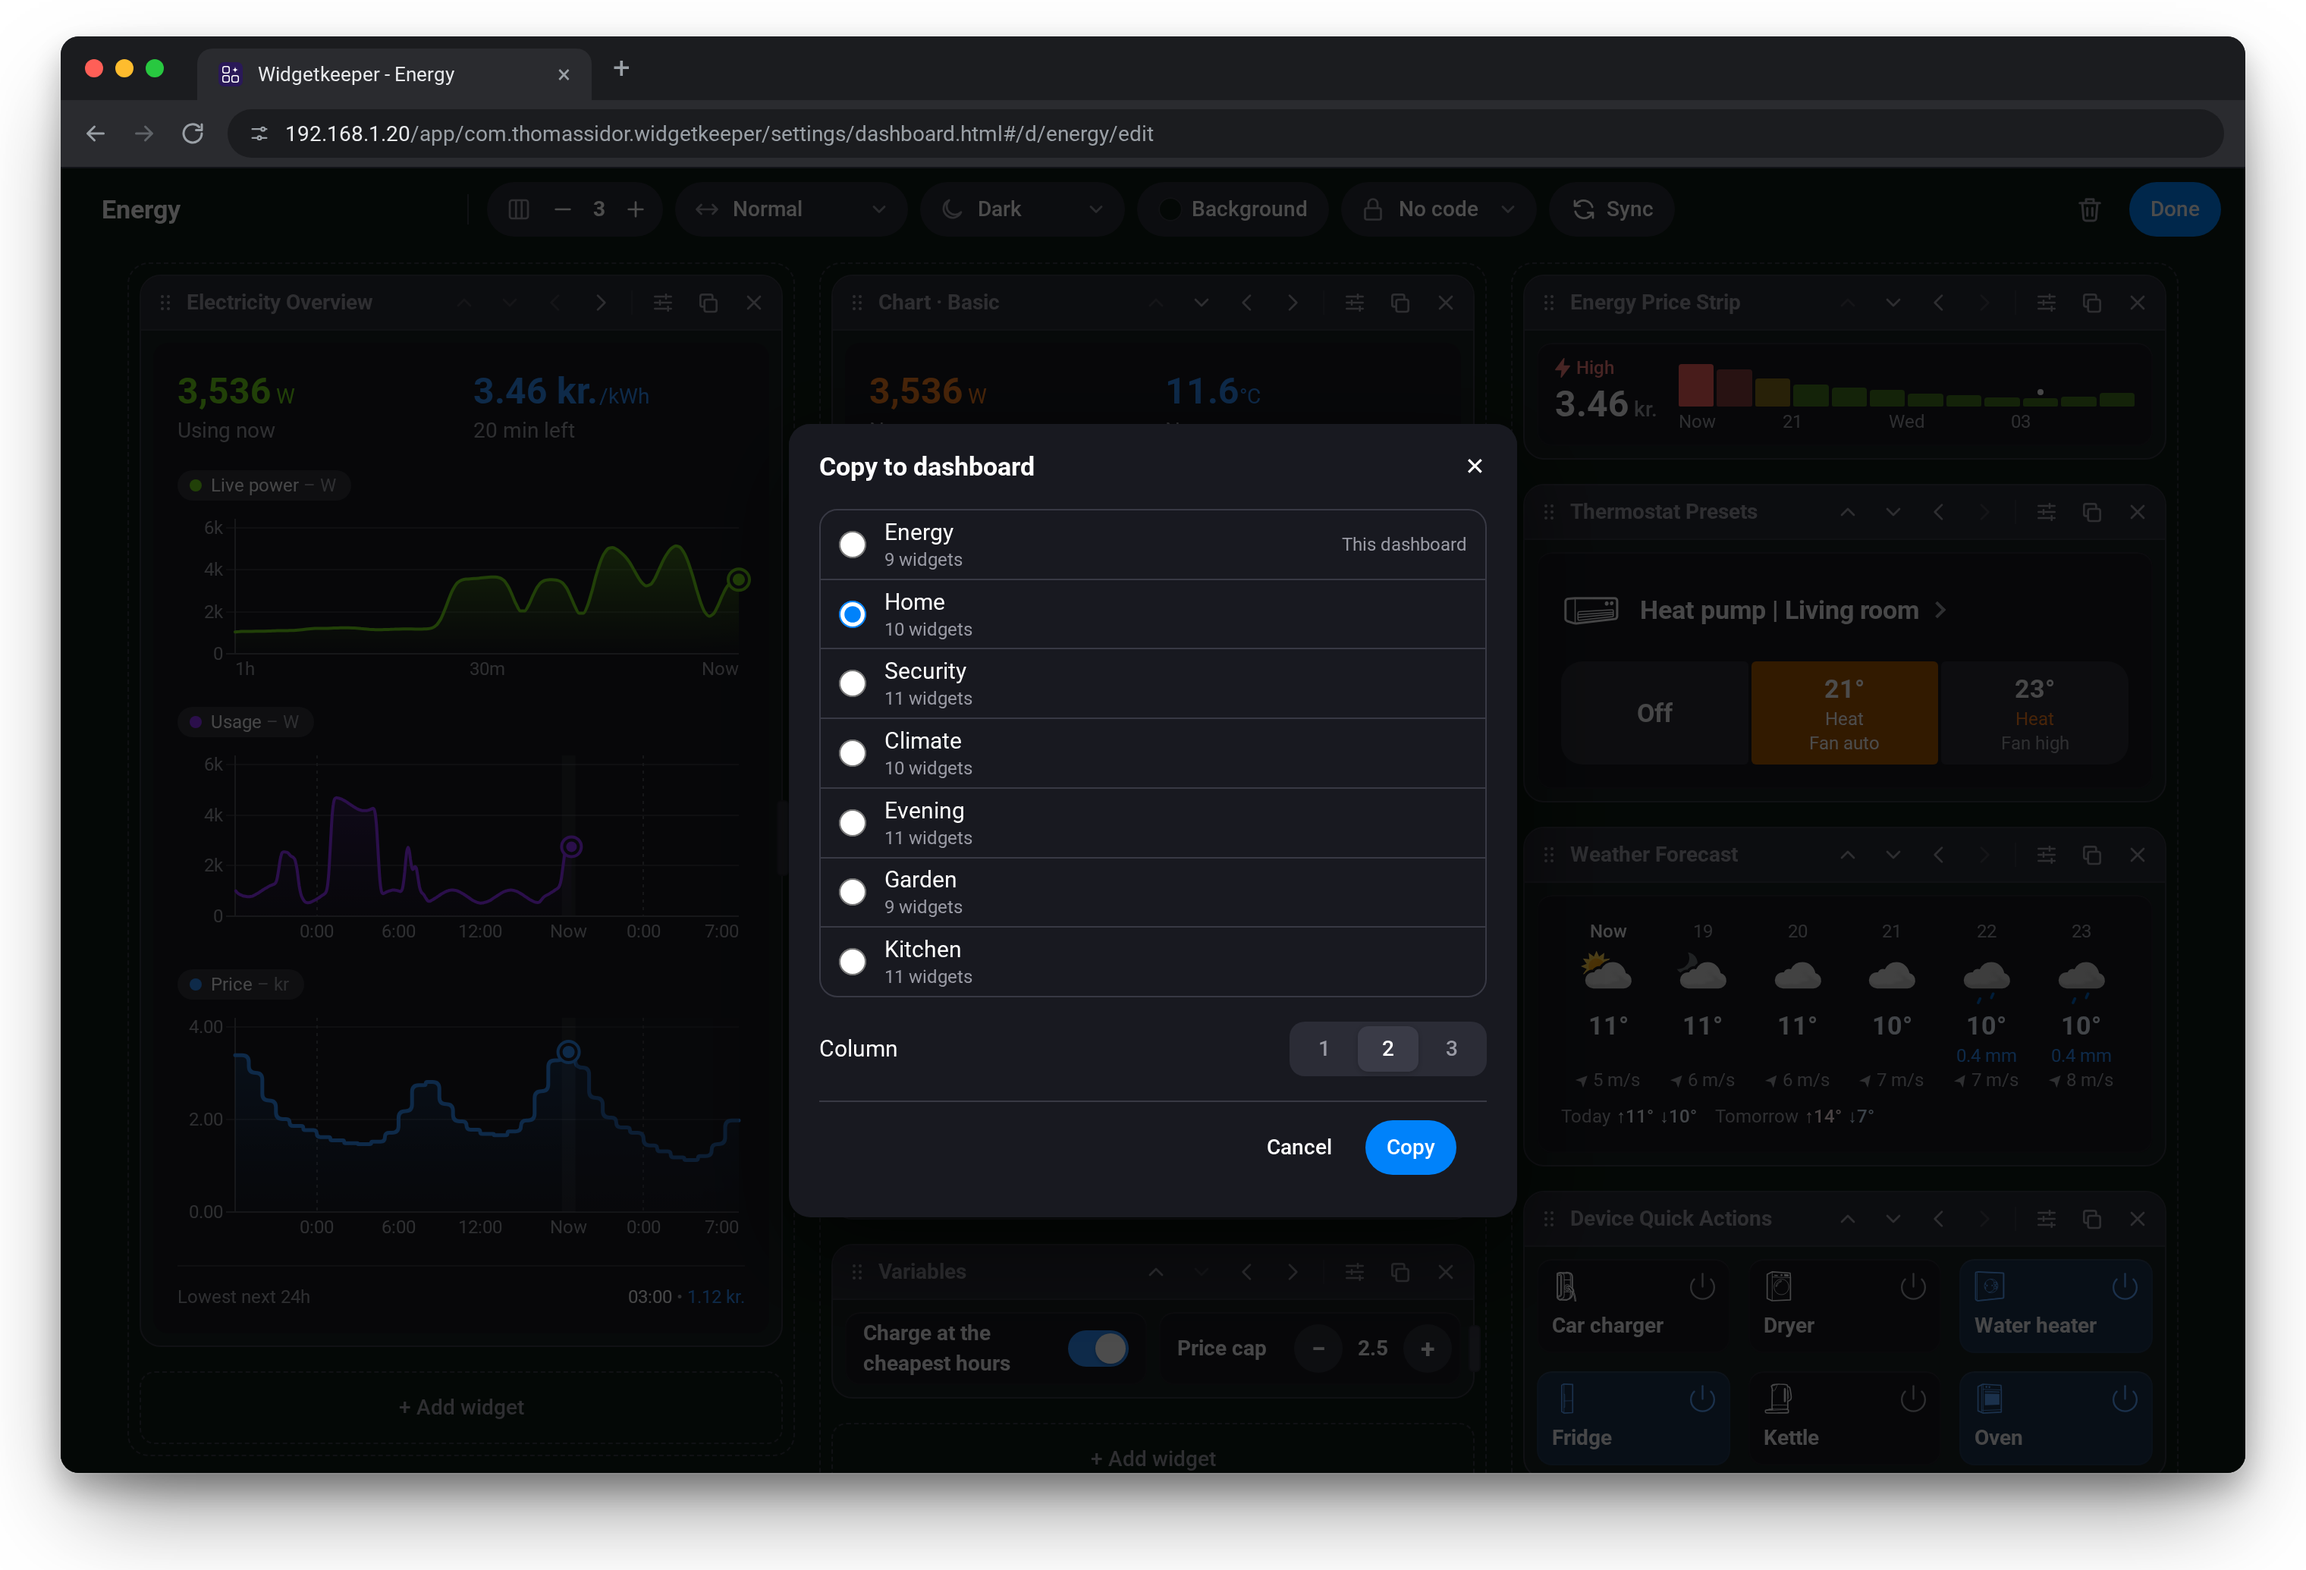
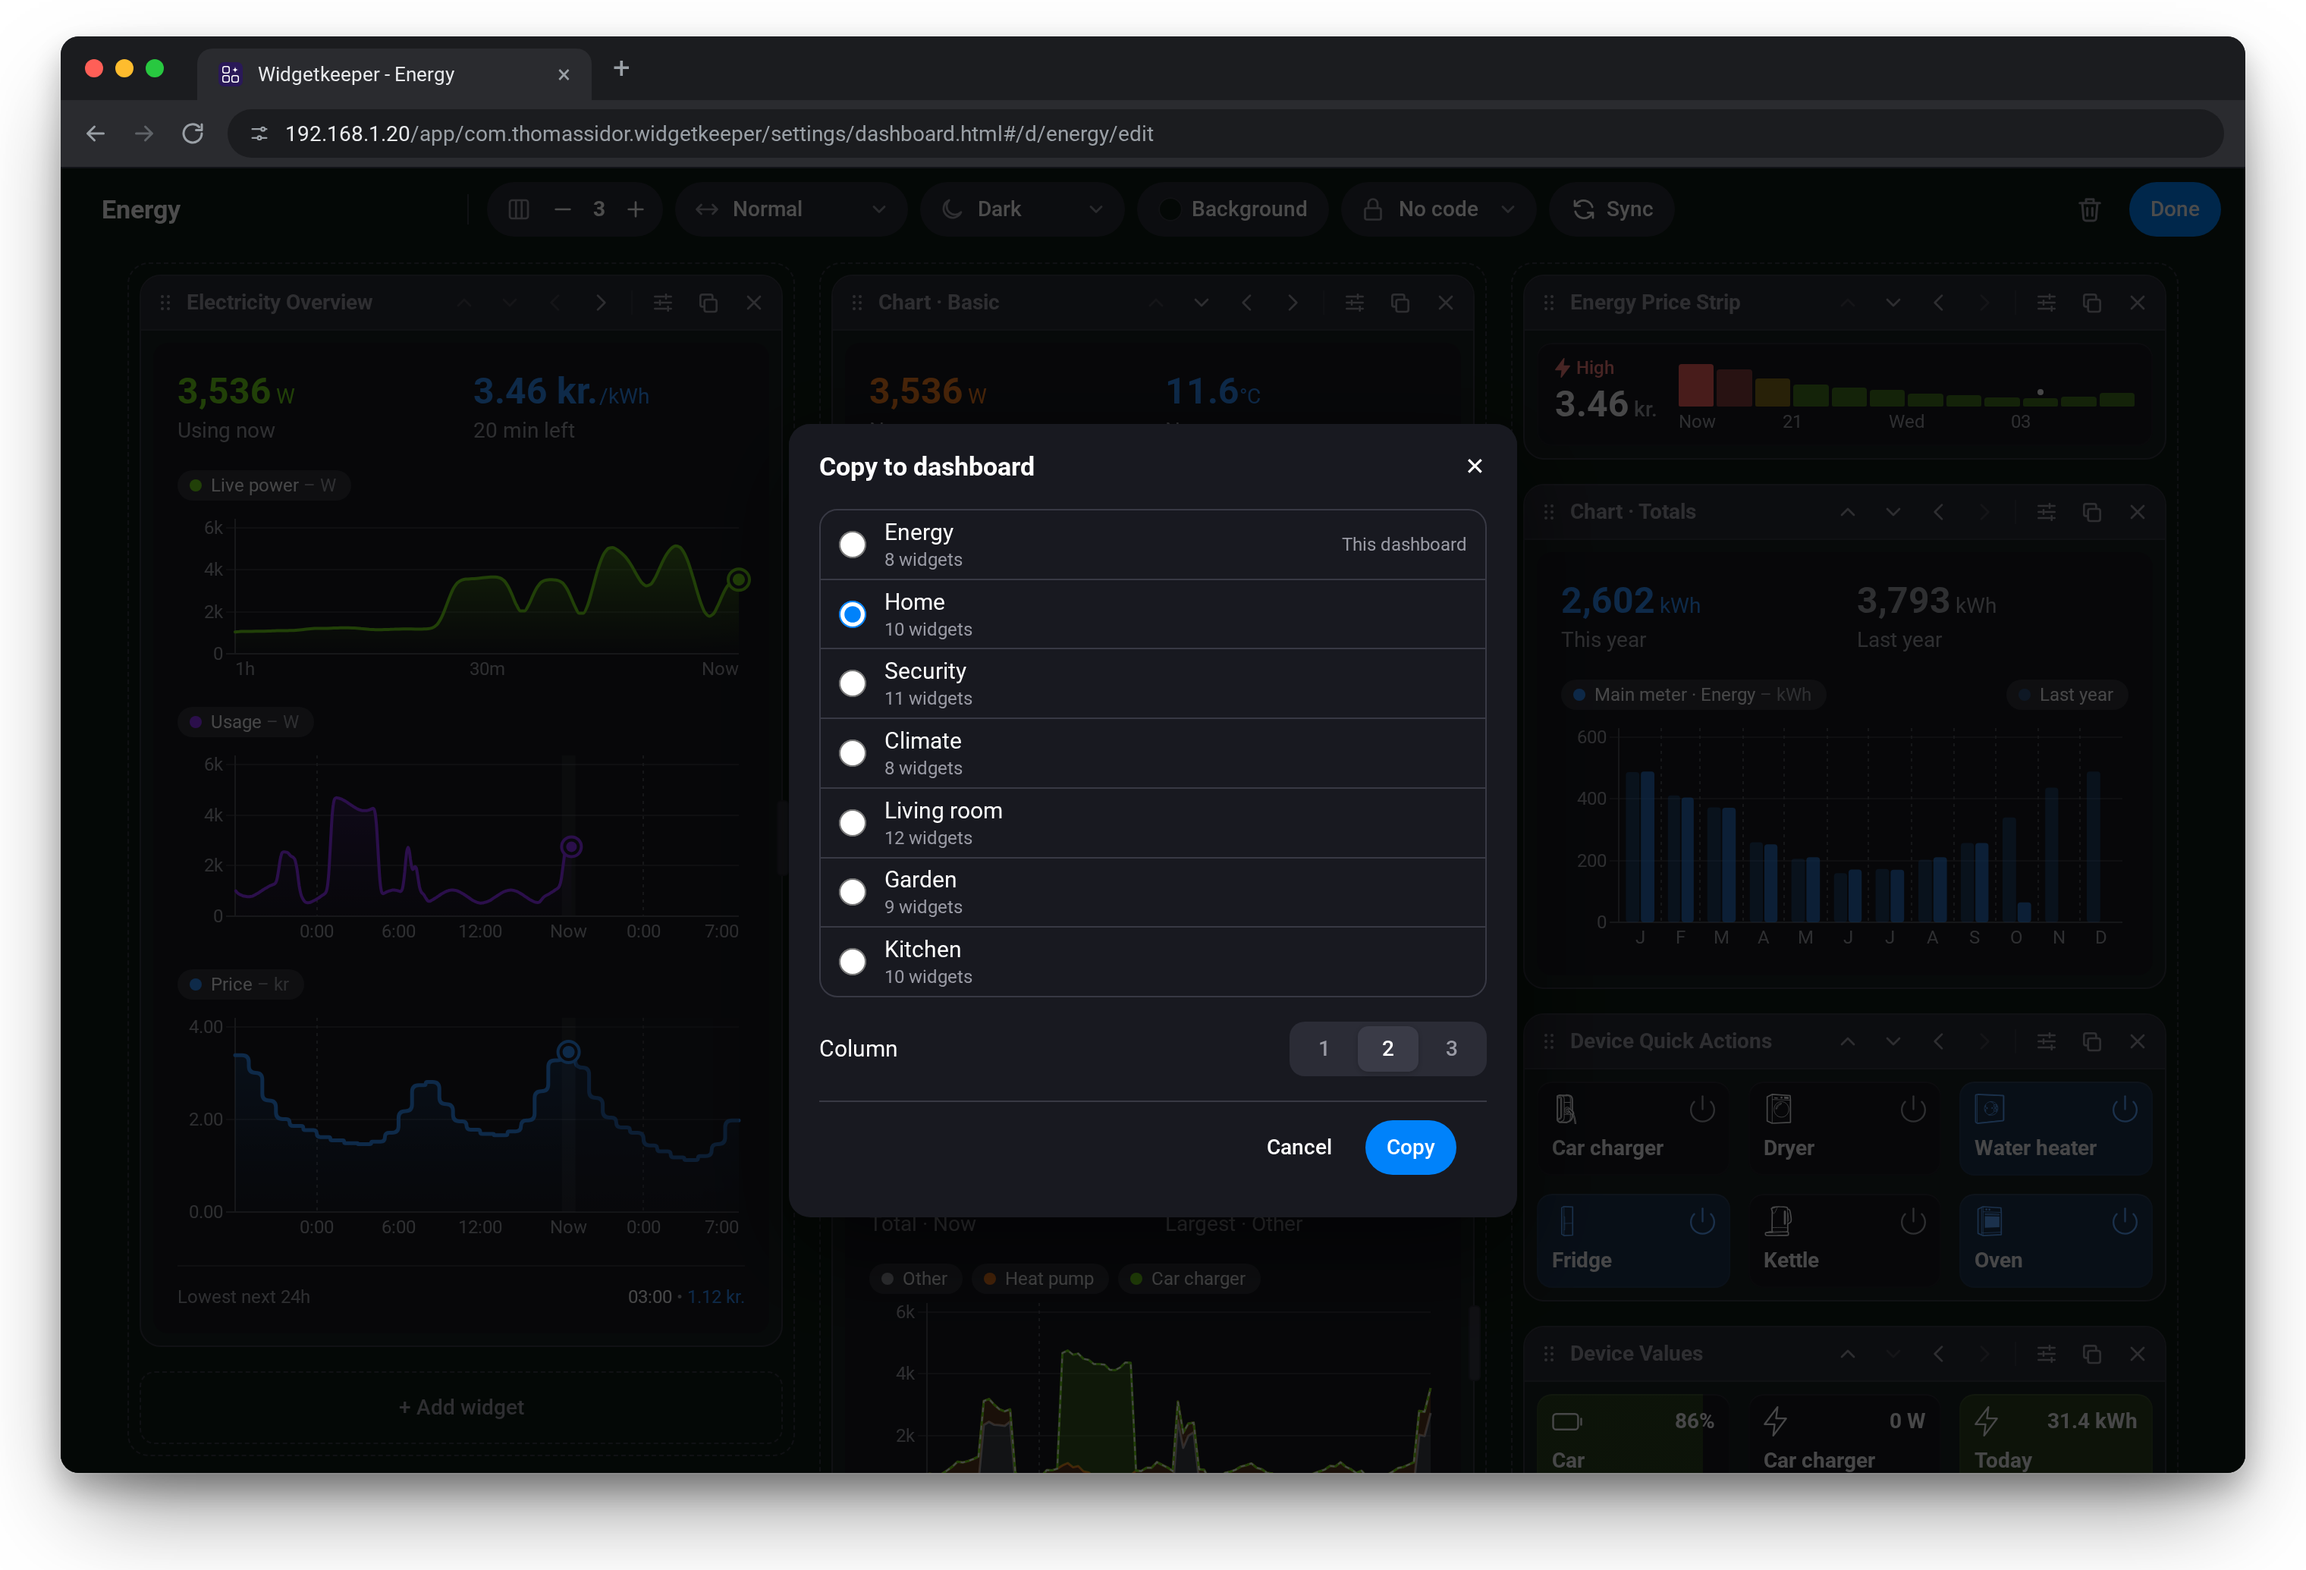
1.2.0: shorter store text and README sections, the graphic says it's in testing
- .homeychangelog.json: 1.2.0's text much shorter, in all 13 languages.
- README: shorter Colour style, Device names and Tile names; their anchors stay.
- The 1.2.0 graphic is headed New in 1.2.0, In testing, and its Copy a widget
  dialog shows the Living room dashboard.

diff --git a/dev/whats-next-1.2.0.html b/dev/whats-next-1.2.0.html
@@ -3,7 +3,7 @@
 <head>
   <meta charset="utf-8">
   <meta name="viewport" content="width=device-width, initial-scale=1">
-  <title>What's next in 1.2.0</title>
+  <title>New in 1.2.0</title>
   <!--
     A teaser of 1.2.0 (CHANGELOG.md), in the look of the 1.0.0 and 1.1.0 posters (whats-new.html, whats-next-1.1.0.html):
     the nine new chart widgets (Totals, Scatter (XY), Daily Profile, Min/Max, Lines, Stacked, Timeline, Ranking, Gauge) as the
@@ -185,8 +185,8 @@
   <header>
     <div class="logo"><svg viewBox="0 0 64 64"><g fill="none" stroke="#FFFFFF" stroke-width="3"><rect x="11.5" y="11.5" width="17" height="17" rx="5"/><rect x="11.5" y="35.5" width="17" height="17" rx="5"/><rect x="35.5" y="35.5" width="17" height="17" rx="5"/></g><path d="M44 11Q44 20 53 20Q44 20 44 29Q44 20 35 20Q44 20 44 11Z" fill="#FFFFFF"/></svg></div>
     <div>
-      <div class="eyebrow">Widgetkeeper 1.2.0 <span>Coming soon</span></div>
-      <h1>What's next in 1.2.0</h1>
+      <div class="eyebrow">Widgetkeeper 1.2.0 <span>In testing</span></div>
+      <h1>New in 1.2.0</h1>
       <p>Nine new charts, any time span, sign-in codes, a live preview, sync with Homey dashboards, shorter device names and more colours.</p>
     </div>
     <div class="chips">

diff --git a/.claude/rules/renders.md b/.claude/rules/renders.md
@@ -23,4 +23,4 @@ paths:
 - `npm run forum-images`: `docs/forum/<showcase|web>-<id>.jpg` for the Homey Community post: the transparent showcase and web PNGs on the App Store images' brand background (`background()` from `scripts/app-images.mjs`), 1380 px wide (2x the post's 690), JPEG 88. Discourse turns a large transparent PNG into a JPEG on white, which showed the first post's tablet in a white box (2026-10-19). Run it after `showcase` and `web-showcase`.
 - `npm run whats-new`: the 1.0.0 poster `docs/whats-new-1.0.0.png` from `dev/whats-new.html` (needs `docs/web/settings.png`). Opaque, so it goes in the forum as it is. Its Light Controls take the showcase's devices by the `dusk` palette alone: since the Evening's widget became Lights by Room (1.1.0) a `type === 'lights'` match found none, and the page threw before reporting its size (`No size for the poster`, found 2026-11-03).
 - `npm run whats-next [-- 1.1.0]`: a release's teaser `docs/whats-next-<version>.png` from `dev/whats-next-<version>.html` (`TEASERS` in the script: each version and the web showcase view it needs; default the latest). 1.1.0's, in the 1.0.0 poster's look: A row of the new widgets (Pollen and UV, Lights by Room with the dev page's drawn zone icons, Web Page, Keypad as in the README screenshot), the Popups panel (the real prompt page in a drawn phone, the hallway camera's made-up picture `dev/cameras/door.webp`, a question and a message, its Flow cards drawn), a row of improvements (Quick Actions' *Activate with* with the front door asking *Tap again*, clicked 2 s in as it asks for 3 s, credited to @stefan-schweiger; Thermostat Presets with its three Flow cards drawn; Charts on Today, the showcase's day; an And also list), and the web dashboards panel (`docs/web/wide.png`, `npm run web-showcase -- wide`: Energy with its chart across two columns). The page fetches the picture, so the script serves the repo root (`withServer()`). Opaque, like the 1.0.0 one.
-- 1.2.0's teaser (`npm run whats-next`, needs `docs/web/preview.png`), in the same look: a row of four new charts (Totals, Scatter (XY), Daily Profile, Min/Max), a row of four more (Lines, Stacked, Timeline, Ranking; updated 2026-10-31, after the last three and the sign-in codes came), then a row with Chart · Basic's free spans (a few as chips; two stacked charts of 6 months and 40 minutes, their readings made up in the page, their values now the showcase's 11.6 °C and 3,536 W), Device names (the settings page's card drawn, Energy's Quick Actions with a room after a `|` in full and before it), Sign-in codes (the settings page's Screens and browsers drawn with a made-up code `KX7P-M4TQ` and the preview's made-up home address with it as a real QR code from `settings/qrcode.js`, the kitchen tablet's *Opens on*, and the page's code field) and Chart · Gauge (the README screenshots' office CO₂, bar and dial), then a full-width strip of the six new colours (kit.css's bright over shade swatches) beside the And also list in two columns, then the web dashboards panel with the live preview. Gauge, Totals' cost, Opens on, the room mode, Sparklines' spans and the colours came the same evening (2026-10-31); the strip keeps the fourth column as short as the others. On 2026-11-03 the rest of 1.2.0 came in: Sync with Homey in the header, apps' numbers, Cameras, the tiles per row and the Timeline notice in And also, and, at the user's ask that each big web dashboards change gets its own showcase, the live preview's panel is followed by a row (`.pair`) of Sync with Homey dashboards, its two dialogs in one box (the user's ask: they're about the same thing; the editor's `sync-dialog.png` and the front page Settings' `nightly-dialog.png`, captioned, bottoms lined up) and, narrower, Copy a widget (`copy-dialog.png`); kiosk mode is an And also item (the user's call). `npm run web-showcase -- preview sync nightly copy` before the teaser. Each new chart is its README screenshot's mount (`mock-*.js`, the `h2` with a quieter `Chart ·`). No file is fetched, but the script serves the repo root for both. Byte-identical between runs.
+- 1.2.0's teaser (`npm run whats-next`, needs `docs/web/preview.png`; headed *New in 1.2.0*, *In testing* since the test release, 2026-11-06), in the same look: a row of four new charts (Totals, Scatter (XY), Daily Profile, Min/Max), a row of four more (Lines, Stacked, Timeline, Ranking; updated 2026-10-31, after the last three and the sign-in codes came), then a row with Chart · Basic's free spans (a few as chips; two stacked charts of 6 months and 40 minutes, their readings made up in the page, their values now the showcase's 11.6 °C and 3,536 W), Device names (the settings page's card drawn, Energy's Quick Actions with a room after a `|` in full and before it), Sign-in codes (the settings page's Screens and browsers drawn with a made-up code `KX7P-M4TQ` and the preview's made-up home address with it as a real QR code from `settings/qrcode.js`, the kitchen tablet's *Opens on*, and the page's code field) and Chart · Gauge (the README screenshots' office CO₂, bar and dial), then a full-width strip of the six new colours (kit.css's bright over shade swatches) beside the And also list in two columns, then the web dashboards panel with the live preview. Gauge, Totals' cost, Opens on, the room mode, Sparklines' spans and the colours came the same evening (2026-10-31); the strip keeps the fourth column as short as the others. On 2026-11-03 the rest of 1.2.0 came in: Sync with Homey in the header, apps' numbers, Cameras, the tiles per row and the Timeline notice in And also, and, at the user's ask that each big web dashboards change gets its own showcase, the live preview's panel is followed by a row (`.pair`) of Sync with Homey dashboards, its two dialogs in one box (the user's ask: they're about the same thing; the editor's `sync-dialog.png` and the front page Settings' `nightly-dialog.png`, captioned, bottoms lined up) and, narrower, Copy a widget (`copy-dialog.png`); kiosk mode is an And also item (the user's call). `npm run web-showcase -- preview sync nightly copy` before the teaser. Each new chart is its README screenshot's mount (`mock-*.js`, the `h2` with a quieter `Chart ·`). No file is fetched, but the script serves the repo root for both. Byte-identical between runs.

diff --git a/README.md b/README.md
@@ -309,33 +309,23 @@ Turning web dashboards off keeps them on your Homey.
 <img src="docs/showcase/kitchen.png" alt="A kitchen dashboard with Widgetkeeper widgets on a tablet" width="100%">
 
 ## Colour style
-Every widget with a coloured state has a **Colour style** setting: *Muted* is the calmer look, *Vivid* the stronger one, and a colour you pick in the widget follows it.
-
-- Where a colour tints a tile (a Quick Actions tile that's on, a Sensor Alarms alarm, a coloured note, Value Matrix's cells …), Vivid fills the tile with Homey's darker shade, with white text. The charts get a stronger area under their lines.
-- Where the colour is already a small solid part (a lit preset button, Insights Heatmap's cells, Media's play button, Activity Dots' dots), Muted uses the darker shade and Vivid the bright colour.
-- Days Since and Room Health are toned down in Muted and in full colour in Vivid. Weather Forecast's *Vivid* puts the card on a gradient for the current weather.
+Every widget with a coloured state has a **Colour style** setting: *Muted* is the calmer look, *Vivid* the stronger one, and a colour you pick in the widget follows it. Weather Forecast has a *Vivid* of its own, which puts the card on a gradient for the current weather.
 
 ## Device names
-If your device names say more than the device, such as *Ceiling lamp | Kitchen*, choose under **Apps → Widgetkeeper → Configure → Device names** which part every widget shows:
+If your device names say more than the device, such as *Ceiling lamp | Kitchen*, choose under **Apps → Widgetkeeper → Configure → Device names** which part every widget shows: the full name (the default), the part before or after a separator you type, the last word, or the name without its room (*Kitchen ceiling lamp* in the Kitchen shows as *Ceiling lamp*).
 
-- *Full name*: as in Homey (the default).
-- *Before the separator*: *Ceiling lamp | Kitchen* shows as *Ceiling lamp*. You type the separator, such as `|` or ` - ` (spaces count, so ` - ` leaves *Wi-Fi plug* whole). With the separator more than once, the part before the first one.
-- *After the separator*: *Kitchen | Ceiling lamp* shows as *Ceiling lamp*, the part after the last one.
-- *Last word*: *Kitchen ceiling lamp* shows as *lamp*.
-- *Without the room name*: a device in the Kitchen called *Kitchen ceiling lamp*, *Kitchen - ceiling lamp* or *Ceiling lamp (Kitchen)* shows as *Ceiling lamp*. Only the room's whole name at the start or end is left out, so *Kitchenette lamp* stays as it is.
-
-A name without the separator (or the room's name) shows in full. The page shows a few of your own names as they'll look, and open widgets change at once. The device lists in widget settings, Flow tokens and [names typed on tiles](#tile-names) stay as they are.
+The page shows a few of your own names as they'll look. Device lists in widget settings, Flow tokens and [names typed on tiles](#tile-names) stay as they are.
 
 ## Tile names
 <img src="docs/clips/rename.webp" alt="Rename tiles: the setting turned on, names typed on two Light Controls tiles, and the setting turned off again with the names kept" width="358">
 
-Give any tile a name of your own, such as *Sofa corner* for a room's lights, instead of the device's or room's name. Light Controls, Lights by Room (its rooms and lights), Curtains, Device Quick Actions, Sensor Alarms, Room Health, Value Matrix, Device Values, Sparklines, Locks and Doors, Cameras, Variables and (on web dashboards) Dashboard Shortcuts have it.
+Give a tile a name of your own, such as *Sofa corner*, instead of the device's or room's name, in any widget with a **Rename tiles** setting:
 
-1. Edit the dashboard, edit the widget, turn on **Rename tiles** (the first setting) and save the widget.
-2. Leave the dashboard's edit mode. Each tile now shows a text field: type its name, or leave it empty for the device's (or room's) own.
+1. Edit the widget, turn on **Rename tiles** and save.
+2. Leave the dashboard's edit mode and type the names on the tiles.
 3. Edit the widget again and turn **Rename tiles** off.
 
-The names belong to that widget: they stay with the right tiles when you rename or reorder devices, and every screen and Smart Stack showing the widget gets them.
+The names stay with the right tiles when you rename or reorder devices.
 
 ## API key
 Homey doesn't let apps change variables, start flows, read dashboards or start Moods on their own. For those, create a key in the Homey web app under **Settings → API Keys**, tick the permissions below for the widgets you use, and paste it under **Apps → Widgetkeeper → Configure**. The key stays on your Homey, and that page says what it may do once it's saved.
